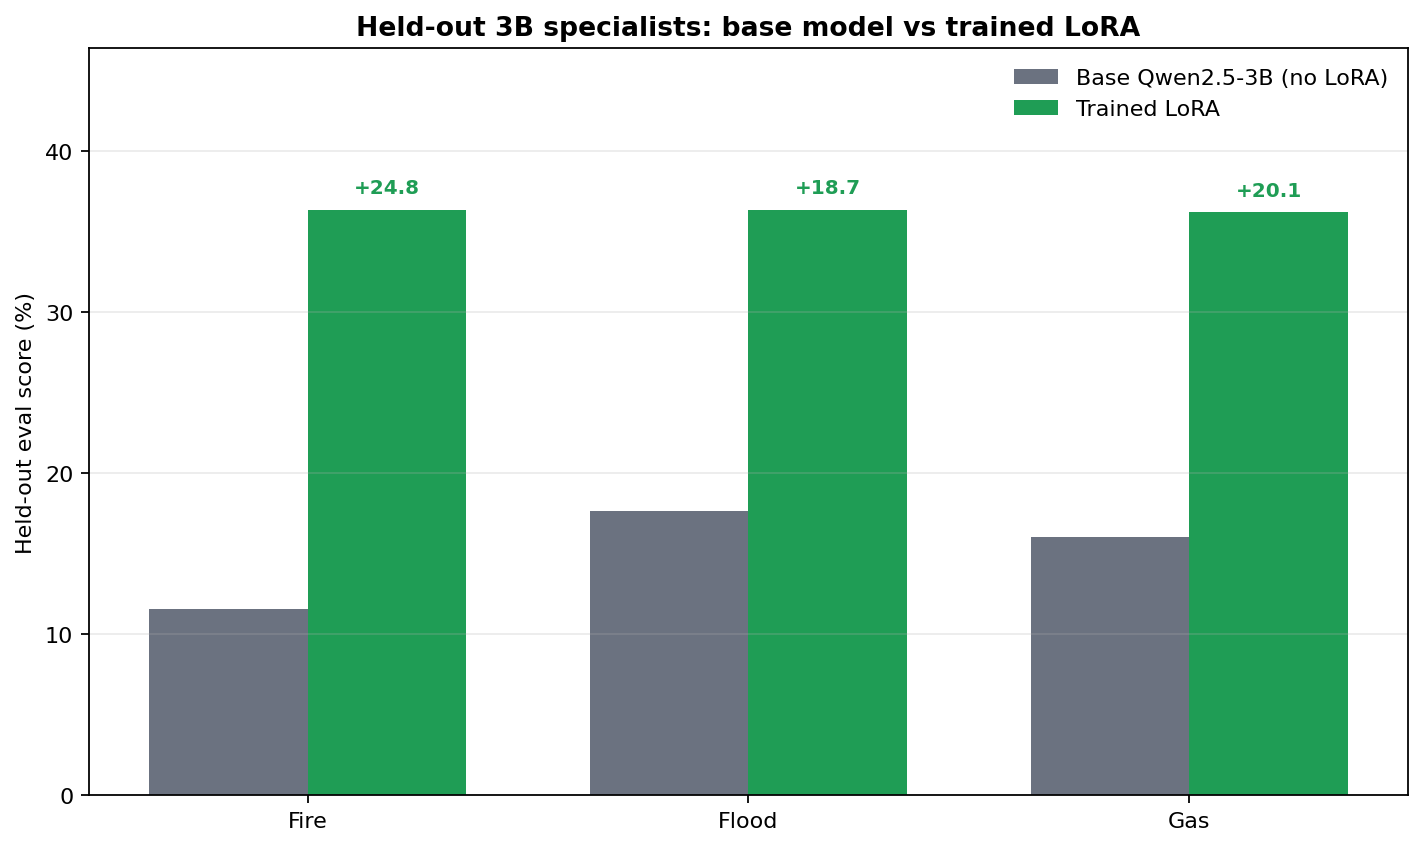
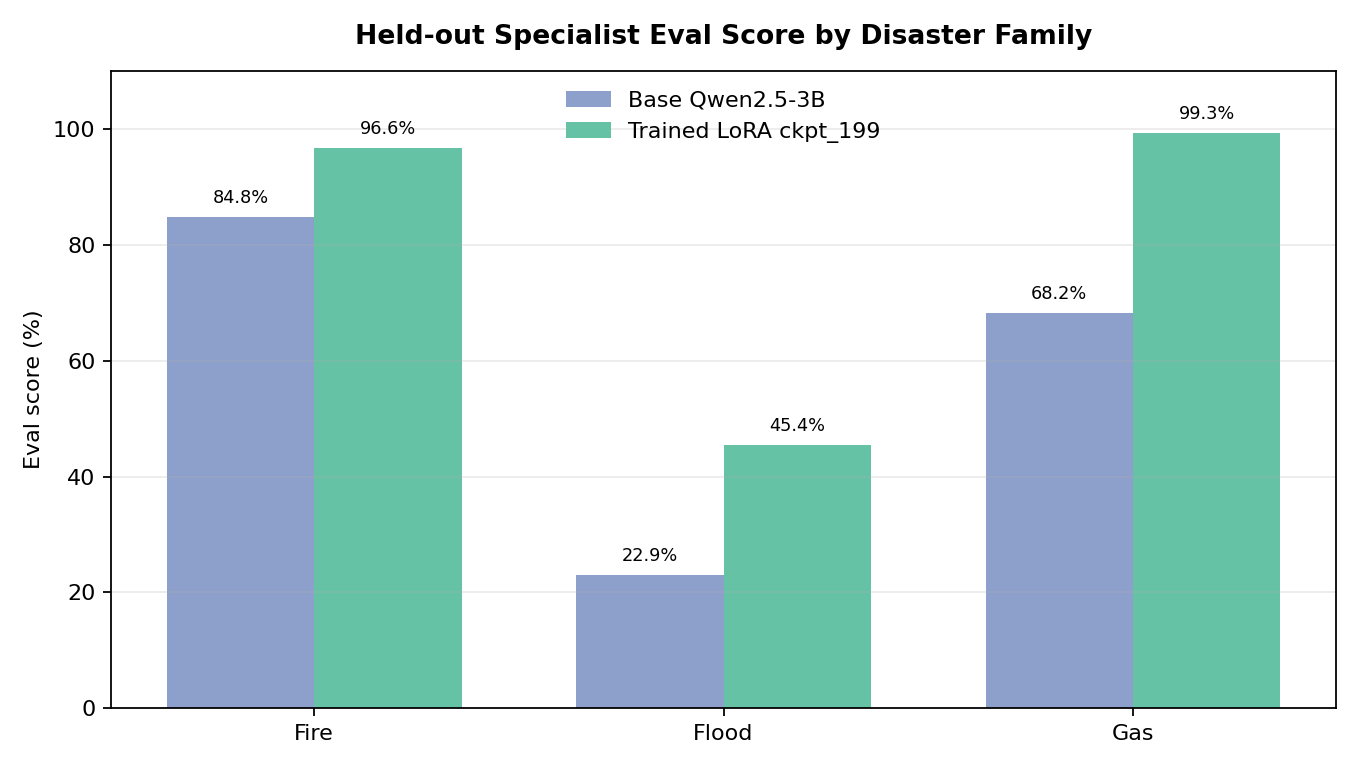
Update ckpt199 held-out 3B eval evidence

diff --git a/SUBMISSION_BRIEF.md b/SUBMISSION_BRIEF.md
@@ -2,7 +2,7 @@
 
 EvacOS2 is a multi-agent evacuation RL environment where one orchestrator and multiple floor agents must coordinate people movement, exits, overrides, and hazard response inside a deterministic simulator.
 
-Evidence status: the repo now includes a held-out `3B` specialist comparison: Qwen2.5-3B base/no-LoRA versus trained LoRA specialists on the same unseen seeds and evaluator. On this `30`-episode controlled proof slice, trained LoRA floor specialists improved the average eval score from `15.08%` to `36.28%` and reduced invalid actions from `51.81%` to `0.00%`. The `7B` orchestrator remains smoke/training-signal validated rather than claimed as a converged held-out policy.
+Evidence status: the repo now includes a held-out `3B` specialist comparison: Qwen2.5-3B base/no-LoRA versus trained LoRA specialists on the same unseen seeds and evaluator. On this `30`-episode controlled proof slice, trained LoRA floor specialists improved the average eval score from `58.65%` to `80.45%` and reduced invalid actions from `39.18%` to `0.87%`. The `7B` orchestrator remains smoke/training-signal validated rather than claimed as a converged held-out policy.
 
 Benchmark scope: the submitted fixed-suite specialist comparison is a controlled proof slice. That keeps the baseline-vs-trained result deterministic, judge-runnable, and directly auditable. The simulator and training configs are built for broader curricula; higher-difficulty scorecards are the next evaluation milestone after the submitted slice.
 
@@ -52,7 +52,7 @@ The public artifact repo is historically named `evacos2-7b-orchestrator-artifact
 - latest flood continuation: `floor-specialists/flood/h200-resume200-from-vast50/checkpoints/ckpt_139`
 - latest gas continuation: `floor-specialists/gas/h200-resume200-from-vast50/checkpoints/ckpt_89`
 - latest continuation manifest: `floor-specialists/h200-resume200-from-vast50-MANIFEST.json`
-- held-out base-vs-trained eval: `heldout/base-model-vs-h200-resume200-3b-heldout10-batched-20260429-065816`
+- held-out base-vs-trained eval: `heldout/base-model-vs-h200-resume200-ckpt199-3b-heldout10-batched-20260429-094214`
 
 Download example:
 
@@ -68,7 +68,7 @@ hf download shashankN777/evacos2-7b-orchestrator-artifacts \
   --include "floor-specialists/flood/h200-resume200-from-vast50/**" \
   --include "floor-specialists/gas/h200-resume200-from-vast50/**" \
   --include "floor-specialists/h200-resume200-from-vast50-MANIFEST.json" \
-  --include "heldout/base-model-vs-h200-resume200-3b-heldout10-batched-20260429-065816/**" \
+  --include "heldout/base-model-vs-h200-resume200-ckpt199-3b-heldout10-batched-20260429-094214/**" \
   --local-dir outputs/hf_public_artifacts
 ```
 
@@ -85,14 +85,14 @@ python -m evaluation.demo_bundle \
 
 ## Held-out base-vs-trained headline
 
-On a `30`-episode held-out specialist evaluation, trained LoRA floor specialists more than doubled the base/no-LoRA Qwen2.5-3B average eval score and eliminated invalid actions across fire, flood, and gas response lanes.
+On a `30`-episode held-out specialist evaluation, trained LoRA floor specialists improved the base/no-LoRA Qwen2.5-3B average eval score by `+21.80 pp` and cut invalid actions from `39.18%` to `0.87%` across fire, flood, and gas response lanes.
 
 | Family | Episodes | Base eval score | Trained eval score | Delta | Base invalid | Trained invalid |
 |---|---:|---:|---:|---:|---:|---:|
-| Fire | `10` | `11.58%` | `36.34%` | `+24.76 pp` | `60.00%` | `0.00%` |
-| Flood | `10` | `17.63%` | `36.34%` | `+18.70 pp` | `46.67%` | `0.00%` |
-| Gas | `10` | `16.02%` | `36.16%` | `+20.14 pp` | `48.75%` | `0.00%` |
-| **Average** | `30 total` | **`15.08%`** | **`36.28%`** | **`+21.20 pp`** | **`51.81%`** | **`0.00%`** |
+| Fire | `10` | `84.77%` | `96.64%` | `+11.87 pp` | `27.52%` | `2.60%` |
+| Flood | `10` | `22.95%` | `45.42%` | `+22.47 pp` | `47.67%` | `0.00%` |
+| Gas | `10` | `68.22%` | `99.28%` | `+31.06 pp` | `42.34%` | `0.00%` |
+| **Average** | `30 total` | **`58.65%`** | **`80.45%`** | **`+21.80 pp`** | **`39.18%`** | **`0.87%`** |
 
 ## Core competitive claims
 

diff --git a/README.md b/README.md
@@ -49,7 +49,7 @@ but also:
 | Public model/artifact repo | [shashankN777/evacos2-7b-orchestrator-artifacts](https://huggingface.co/shashankN777/evacos2-7b-orchestrator-artifacts) |
 | Source code on GitHub | [sai-shashankN/EvacOS2](https://github.com/sai-shashankN/EvacOS2) |
 
-**Evidence status:** the repo now includes a judge-clean held-out `3B` specialist comparison: Qwen2.5-3B base/no-LoRA versus the trained LoRA specialists on the same unseen seeds, same evaluator, and same family-specific lanes. On this `30`-episode controlled proof slice, trained LoRA floor specialists improved the average eval score from `15.08%` to `36.28%` and reduced invalid actions from `51.81%` to `0.00%`. The `7B` orchestrator remains smoke/training-signal validated rather than claimed as a converged held-out policy.
+**Evidence status:** the repo now includes a judge-clean held-out `3B` specialist comparison: Qwen2.5-3B base/no-LoRA versus the trained LoRA specialists on the same unseen seeds, same evaluator, and same family-specific lanes. On this `30`-episode controlled proof slice, trained LoRA floor specialists improved the average eval score from `58.65%` to `80.45%` and reduced invalid actions from `39.18%` to `0.87%`. The `7B` orchestrator remains smoke/training-signal validated rather than claimed as a converged held-out policy.
 
 **Benchmark scope note:** the submitted specialist proof lane uses a controlled fixed-suite slice so the public baseline-vs-trained comparison is deterministic, cheap enough to rerun, and easy to audit. The simulator and training stack are designed for broader curricula; expanding the same fixed-suite evaluator to higher-difficulty slices is future evaluation work, not a change to the environment architecture.
 
@@ -243,16 +243,16 @@ This is the clearest reward-improvement evidence: same held-out seeds, same fixe
 
 For submission clarity, this table is reported on the controlled specialist proof slice rather than the full simulator difficulty ceiling. That choice keeps the public result reproducible and directly comparable across base, checkpoint, and trained policies; harder benchmark slices are the next validation milestone using the same evaluator shape.
 
-Headline: on a `30`-episode held-out specialist evaluation, trained LoRA floor specialists more than doubled the base/no-LoRA Qwen2.5-3B average eval score, from `15.08%` to `36.28%`, while eliminating invalid actions across all fire, flood, and gas response lanes.
+Headline: on a `30`-episode held-out specialist evaluation, trained LoRA floor specialists improved the base/no-LoRA Qwen2.5-3B average eval score from `58.65%` to `80.45%` (`+21.80 pp`), while cutting invalid actions from `39.18%` to `0.87%`.
 
 | Family | Held-out episodes | Base eval score | Trained eval score | Delta | Base invalid rate | Trained invalid rate |
 |---|---:|---:|---:|---:|---:|---:|
-| Fire | `10` | `11.58%` | `36.34%` | `+24.76 pp` | `60.00%` | `0.00%` |
-| Flood | `10` | `17.63%` | `36.34%` | `+18.70 pp` | `46.67%` | `0.00%` |
-| Gas | `10` | `16.02%` | `36.16%` | `+20.14 pp` | `48.75%` | `0.00%` |
-| **Average** | `30 total` | **`15.08%`** | **`36.28%`** | **`+21.20 pp`** | **`51.81%`** | **`0.00%`** |
+| Fire | `10` | `84.77%` | `96.64%` | `+11.87 pp` | `27.52%` | `2.60%` |
+| Flood | `10` | `22.95%` | `45.42%` | `+22.47 pp` | `47.67%` | `0.00%` |
+| Gas | `10` | `68.22%` | `99.28%` | `+31.06 pp` | `42.34%` | `0.00%` |
+| **Average** | `30 total` | **`58.65%`** | **`80.45%`** | **`+21.80 pp`** | **`39.18%`** | **`0.87%`** |
 
-Public artifact path: `heldout/base-model-vs-h200-resume200-3b-heldout10-batched-20260429-065816` in [shashankN777/evacos2-7b-orchestrator-artifacts](https://huggingface.co/shashankN777/evacos2-7b-orchestrator-artifacts).
+Public artifact path: `heldout/base-model-vs-h200-resume200-ckpt199-3b-heldout10-batched-20260429-094214` in [shashankN777/evacos2-7b-orchestrator-artifacts](https://huggingface.co/shashankN777/evacos2-7b-orchestrator-artifacts).
 
 ![Held-out 3B base-vs-trained eval score](demo/results/plots/heldout_3b_base_vs_trained_eval_score.png)
 

diff --git a/Blog.MD b/Blog.MD
@@ -153,16 +153,16 @@ The cleanest reward-improvement evidence is now a held-out `3B` specialist compa
 
 This is intentionally framed as a controlled proof lane, not the full ceiling of the simulator. For judges, the goal is a clean scientific slice: same seeds, same evaluator, same task families, base model versus trained adapter. The simulator and curriculum can be extended to harder slices, but the submitted public table focuses on the benchmark slice we can make reproducible and inspectable end to end.
 
-The headline is the part that matters: on a `30`-episode held-out specialist evaluation, trained LoRA floor specialists more than doubled the base/no-LoRA Qwen2.5-3B average eval score, from `15.08%` to `36.28%`, while eliminating invalid actions across all fire, flood, and gas response lanes.
+The headline is the part that matters: on a `30`-episode held-out specialist evaluation, trained LoRA floor specialists improved the base/no-LoRA Qwen2.5-3B average eval score from `58.65%` to `80.45%` (`+21.80 pp`), while cutting invalid actions from `39.18%` to `0.87%`.
 
 | Family | Held-out episodes | Base eval score | Trained eval score | Delta | Base invalid rate | Trained invalid rate |
 |---|---:|---:|---:|---:|---:|---:|
-| Fire | `10` | `11.58%` | `36.34%` | `+24.76 pp` | `60.00%` | `0.00%` |
-| Flood | `10` | `17.63%` | `36.34%` | `+18.70 pp` | `46.67%` | `0.00%` |
-| Gas | `10` | `16.02%` | `36.16%` | `+20.14 pp` | `48.75%` | `0.00%` |
-| **Average** | `30 total` | **`15.08%`** | **`36.28%`** | **`+21.20 pp`** | **`51.81%`** | **`0.00%`** |
+| Fire | `10` | `84.77%` | `96.64%` | `+11.87 pp` | `27.52%` | `2.60%` |
+| Flood | `10` | `22.95%` | `45.42%` | `+22.47 pp` | `47.67%` | `0.00%` |
+| Gas | `10` | `68.22%` | `99.28%` | `+31.06 pp` | `42.34%` | `0.00%` |
+| **Average** | `30 total` | **`58.65%`** | **`80.45%`** | **`+21.80 pp`** | **`39.18%`** | **`0.87%`** |
 
-The public artifact path is `heldout/base-model-vs-h200-resume200-3b-heldout10-batched-20260429-065816` in [shashankN777/evacos2-7b-orchestrator-artifacts](https://huggingface.co/shashankN777/evacos2-7b-orchestrator-artifacts). This run is intentionally labeled as a fast `10`-seed held-out comparison; the same evaluator path supports larger seed counts.
+The public artifact path is `heldout/base-model-vs-h200-resume200-ckpt199-3b-heldout10-batched-20260429-094214` in [shashankN777/evacos2-7b-orchestrator-artifacts](https://huggingface.co/shashankN777/evacos2-7b-orchestrator-artifacts). This run is intentionally labeled as a fast `10`-seed held-out comparison; the same evaluator path supports larger seed counts.
 
 ![Held-out 3B base-vs-trained eval score](demo/results/plots/heldout_3b_base_vs_trained_eval_score.png)
 

diff --git a/demo/results/heldout_3b_base_vs_trained_summary.md b/demo/results/heldout_3b_base_vs_trained_summary.md
@@ -1,14 +1,12 @@
-# Held-Out 3B Specialist Eval: Base Model vs Trained LoRA
+# Held-Out 3B Specialist Eval: ckpt_199 Base Model vs Trained LoRA
 
-Same held-out seeds, same evaluator, same family-specific lane. Baseline is Qwen2.5-3B-Instruct with no LoRA adapter and the same stub orchestrator used by the specialist training lane. This is a fast 10-seed held-out run; the 50-seed path uses the same command shape.
+Same held-out seeds `9101-9110`, same evaluator, same family-specific controlled proof lane. Baseline is Qwen2.5-3B-Instruct with no LoRA adapter; trained policies are fire/flood/gas H200 resume200 `ckpt_199` LoRA specialists.
 
-This is the controlled fixed-suite proof slice used for the public submission. It is meant to make the base-vs-trained comparison deterministic and auditable; broader higher-difficulty slices use the same evaluation shape as future validation work.
-
-Headline: on this 30-episode held-out specialist evaluation, trained LoRA floor specialists more than doubled the base/no-LoRA Qwen2.5-3B average eval score, from 15.08% to 36.28%, while reducing invalid actions from 51.81% to 0.00%.
+Headline: average eval score 58.65% -> 80.45% (+21.80 pp); invalid actions 39.18% -> 0.87%.
 
 | Family | Episodes | Base eval score | Trained eval score | Delta | Base invalid | Trained invalid | Save-rate delta |
 |---|---:|---:|---:|---:|---:|---:|---:|
-| fire | 10 | 11.58% | 36.34% | 24.76 | 0.6000 | 0.0000 | +0.2099 |
-| flood | 10 | 17.63% | 36.34% | 18.70 | 0.4667 | 0.0000 | +0.1498 |
-| gas | 10 | 16.02% | 36.16% | 20.14 | 0.4875 | 0.0000 | +0.1680 |
-| **average** | **30 total** | **15.08%** | **36.28%** | **21.20** | **0.5181** | **0.0000** | **+0.1759** |
+| fire | 10 | 84.77% | 96.64% | +11.87 pp | 27.52% | 2.60% | +0.6400 |
+| flood | 10 | 22.95% | 45.42% | +22.47 pp | 47.67% | 0.00% | +0.1876 |
+| gas | 10 | 68.22% | 99.28% | +31.06 pp | 42.34% | 0.00% | +0.6740 |
+| **Average** | **30 total** | **58.65%** | **80.45%** | **+21.80 pp** | **39.18%** | **0.87%** | **+0.5006** |
